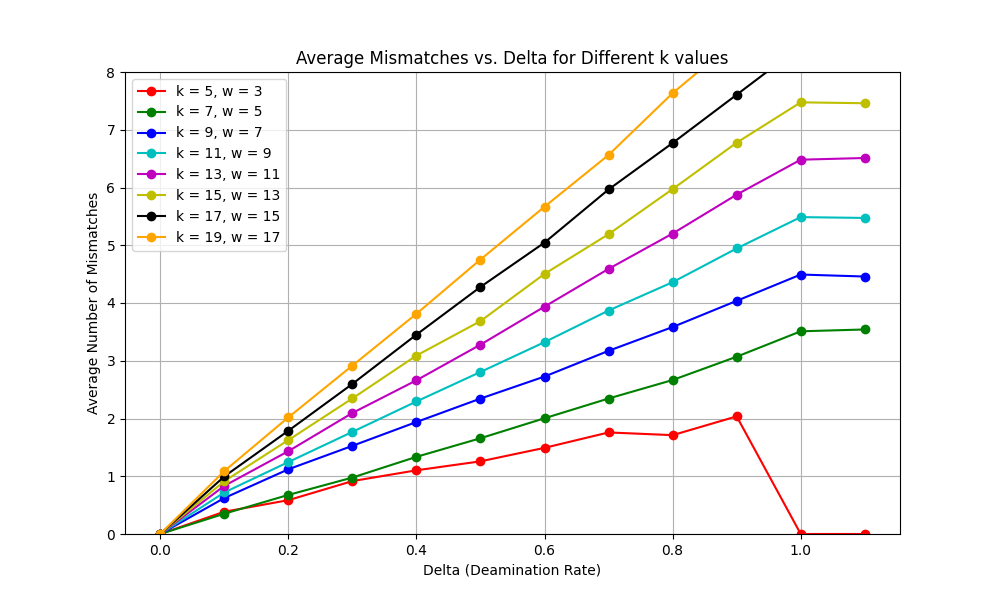
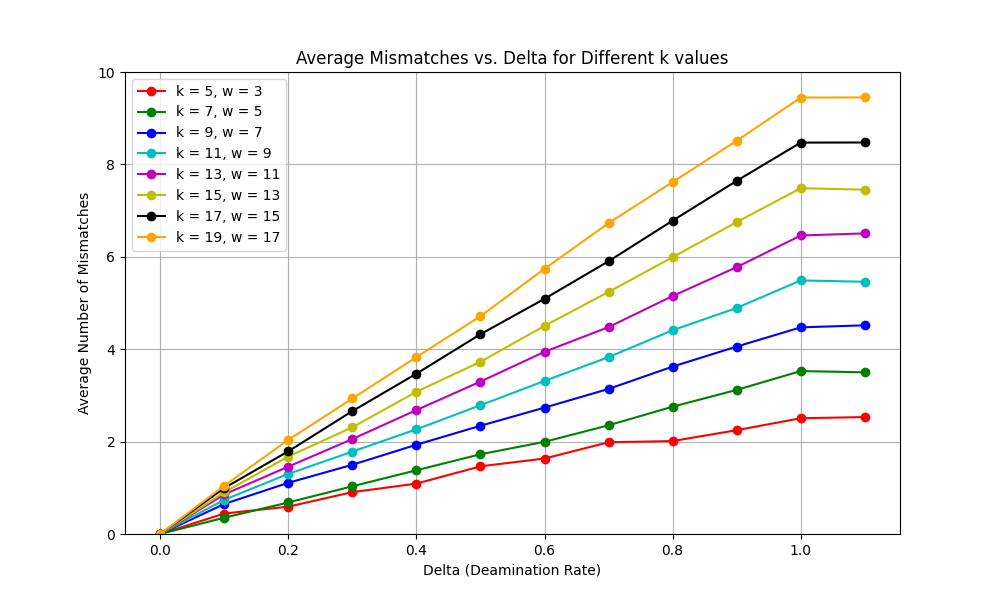
Update

diff --git a/simulations/avg_mismatch/avg.py b/simulations/avg_mismatch/avg.py
@@ -103,7 +103,7 @@ plt.xlabel('Delta (Deamination Rate)')
 plt.ylabel('Average Number of Mismatches')
 plt.title('Average Mismatches vs. Delta for Different k values')
 plt.legend()
-plt.ylim(0, 8)
+plt.ylim(0, 10)
 plt.grid(True)
 plt.savefig("avg_mismatches.png")
 plt.close()
